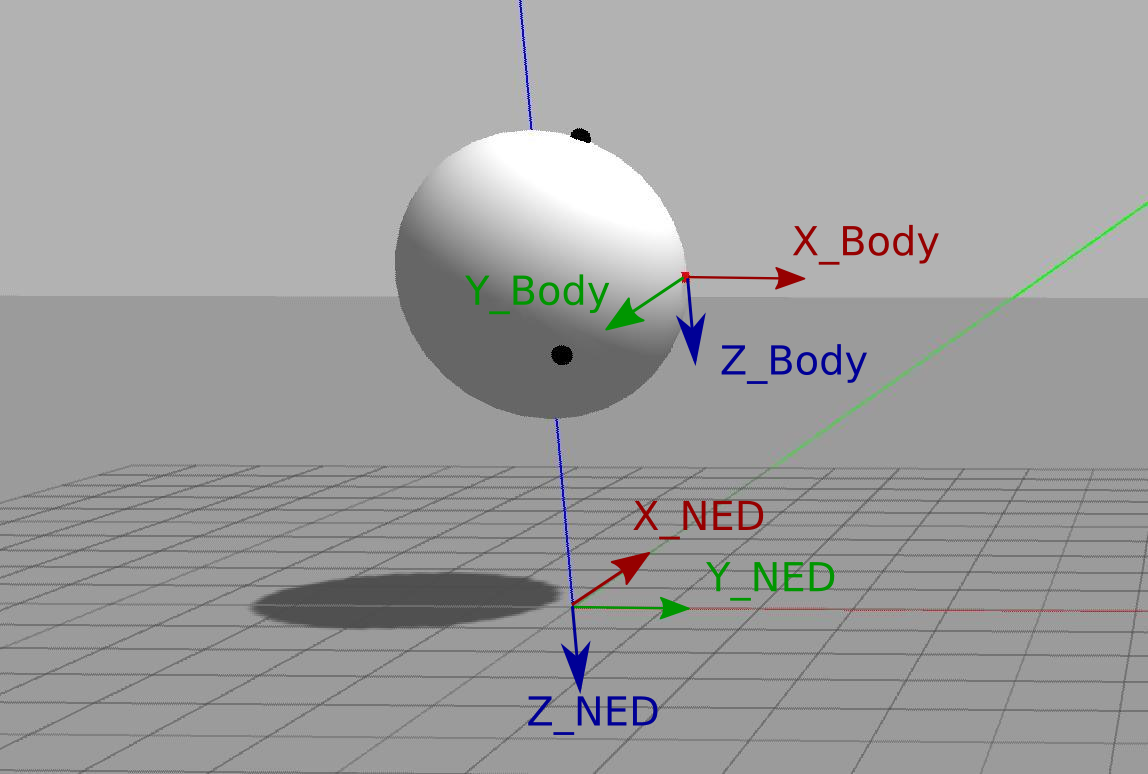
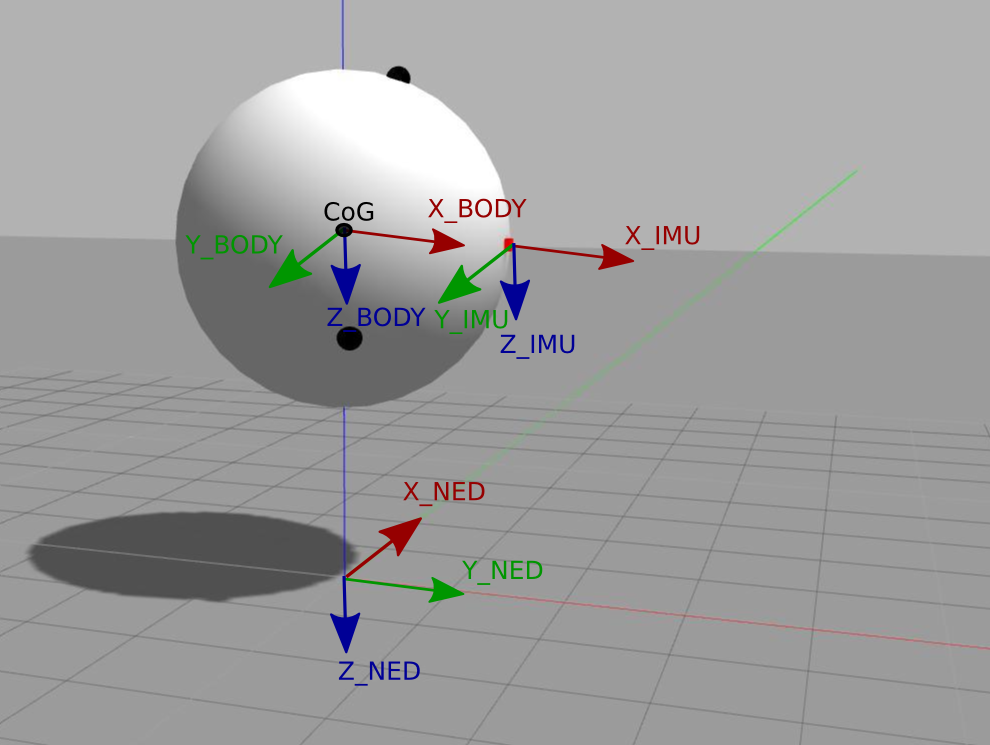
copied Marco's changes in skye_ros directory

diff --git a/skye_ros/src/skye_ros.cpp b/skye_ros/src/skye_ros.cpp
@@ -7,11 +7,12 @@ namespace skye_ros {
 SkyeRos::SkyeRos()
 {
   /* Subscribe to topics. */
-  imu_gz_bf_subscriber_ = nh_.subscribe<sensor_msgs::Imu>("sensor_msgs/imu_gz_bf",
+  imu_gz_sk_subscriber_ = nh_.subscribe<sensor_msgs::Imu>("sensor_msgs/imu_gz",
                                                           1,
                                                           boost::bind(&SkyeRos::imuCallback, this, _1));
   /* Advertise topics. */
-  imu_bf_publisher_  = nh_.advertise<sensor_msgs::Imu>("skye_ros/sensor_msgs/imu_bf", 10);
+  imu_sk_publisher_  = nh_.advertise<sensor_msgs::Imu>("skye_ros/sensor_msgs/imu_sk", 10);
+  hull_ground_truth_publisher_ = nh_.advertise<gazebo_msgs::LinkState>("skye_ros/ground_truth/hull", 10);
 
   /* Services. */
   client_gz_apply_body_wrench_ = nh_.serviceClient<gazebo_msgs::ApplyBodyWrench>("gazebo/apply_body_wrench");
@@ -20,26 +21,21 @@ SkyeRos::SkyeRos()
                                                   &SkyeRos::applyWrenchCog,
                                                   this);
 
-  /*server_get_link_state_ned_ = nh_.advertiseService("skye_ros/get_link_state_ned",
-                                                    &SkyeRos::getLinkStateNed,
-                                                    this);*/
   /* Quaternions. */
   q_ned_enu_ = Eigen::AngleAxisd(-M_PI, Eigen::Vector3d::UnitX()) * 
                Eigen::AngleAxisd(-M_PI / 2.0, Eigen::Vector3d::UnitZ()); 
   q_enu_ned_ = q_ned_enu_.inverse();
 
-  q_gzbf_bf_ = Eigen::AngleAxisd(-M_PI, Eigen::Vector3d::UnitX());
-  q_bf_gzbf_ = q_gzbf_bf_.inverse();
+  q_gz_sk_ = Eigen::AngleAxisd(-M_PI, Eigen::Vector3d::UnitX());
+  q_sk_gz_ = q_gz_sk_.inverse();
 
 }
 
-void SkyeRos::imuCallback(const sensor_msgs::ImuConstPtr &imu_gz_bf_p)
+void SkyeRos::imuCallback(const sensor_msgs::ImuConstPtr &imu_gz_sk_p)
 {
-  /* Convert imu msg from Gazebo's body frame to Skye's body frame.
-  */
-  sensor_msgs::Imu imu_bf;
+  /* Converts imu msg from Gazebo's IMU frame to Skye's IMU frame. */
+  sensor_msgs::Imu                          imu_sk;
   Eigen::Quaterniond                        q_orientation_ned;
-
 
   Eigen::Matrix<double,3,3,Eigen::RowMajor> orientation_cov_bf;
   Eigen::Matrix<double,3,3,Eigen::RowMajor> angular_vel_cov_bf;
@@ -48,71 +44,60 @@ void SkyeRos::imuCallback(const sensor_msgs::ImuConstPtr &imu_gz_bf_p)
   Eigen::Matrix<double,3,3>                 eig_matrix3;
 
   /* Orientation: msg_sensor/imu to tf::quaternion to eigen::quaternion. */
-  quaternionMsgToEigen(imu_gz_bf_p->orientation, eig_quat);
-  /* Rotation from Skye's body frame to Gazebo's body frame. Then rotation from Gazebo's body frame
-   * to Gazebo's world ENU. Finally rotation from Gazebo's world ENU to world NED frame.
+  quaternionMsgToEigen(imu_gz_sk_p->orientation, eig_quat);
+  /* Rotation from Skye's IMU frame to Gazebo's IMU frame (q_gz_sk_). 
+   * Then rotation from Gazebo's IMU frame to Gazebo's world ENU (eig_quat). 
+   * Finally rotation from Gazebo's world ENU to world NED frame (q_ned_enu_).
    */
-  q_orientation_ned = q_ned_enu_ * eig_quat * q_gzbf_bf_;
+  q_orientation_ned = q_ned_enu_ * eig_quat * q_gz_sk_;
 
   /* orientation_covariance: msg_sensor/imu to eigen::matrix. */
   /** @todo find a better solution to this workaround: &(array[0]). */
-  eig_matrix3 = Eigen::Map<const Eigen::Matrix<double,3,3,Eigen::RowMajor> >(&(imu_gz_bf_p->orientation_covariance[0]));                                  
-  orientation_cov_bf = q_bf_gzbf_.matrix() * eig_matrix3 * q_bf_gzbf_.matrix().transpose();
+  eig_matrix3 = Eigen::Map<const Eigen::Matrix<double,3,3,Eigen::RowMajor> >(&(imu_gz_sk_p->orientation_covariance[0]));                                  
+  orientation_cov_bf = q_sk_gz_.matrix() * eig_matrix3 * q_sk_gz_.matrix().transpose();
 
   /* angular velocity: invert Y and Z axis. */
-  imu_bf.angular_velocity.x =   imu_gz_bf_p->angular_velocity.x;
-  imu_bf.angular_velocity.y = -(imu_gz_bf_p->angular_velocity.y);
-  imu_bf.angular_velocity.z = -(imu_gz_bf_p->angular_velocity.z);
+  imu_sk.angular_velocity.x =   imu_gz_sk_p->angular_velocity.x;
+  imu_sk.angular_velocity.y = -(imu_gz_sk_p->angular_velocity.y);
+  imu_sk.angular_velocity.z = -(imu_gz_sk_p->angular_velocity.z);
 
   /* angular_velocity_covariance. */
   /** @todo find a better solution to this workaround: &(array[0]). */
-  eig_matrix3 = Eigen::Map<const Eigen::Matrix<double,3,3,Eigen::RowMajor> >(&(imu_gz_bf_p->angular_velocity_covariance[0]));                                  
-  angular_vel_cov_bf = q_bf_gzbf_.matrix() * eig_matrix3 * q_bf_gzbf_.matrix().transpose();
+  eig_matrix3 = Eigen::Map<const Eigen::Matrix<double,3,3,Eigen::RowMajor> >(&(imu_gz_sk_p->angular_velocity_covariance[0]));                                  
+  angular_vel_cov_bf = q_sk_gz_.matrix() * eig_matrix3 * q_sk_gz_.matrix().transpose();
 
   /* linear acceleration: invert Y and Z axis. */
-  imu_bf.linear_acceleration.x =   imu_gz_bf_p->linear_acceleration.x;
-  imu_bf.linear_acceleration.y = -(imu_gz_bf_p->linear_acceleration.y);
-  imu_bf.linear_acceleration.z = -(imu_gz_bf_p->linear_acceleration.z);
+  imu_sk.linear_acceleration.x =   imu_gz_sk_p->linear_acceleration.x;
+  imu_sk.linear_acceleration.y = -(imu_gz_sk_p->linear_acceleration.y);
+  imu_sk.linear_acceleration.z = -(imu_gz_sk_p->linear_acceleration.z);
 
   /* linear_acceleration_covariance. */
   /** @todo find a better solution to this workaround: &(array[0]). */
-  eig_matrix3 = Eigen::Map<const Eigen::Matrix<double,3,3,Eigen::RowMajor> >(&(imu_gz_bf_p->linear_acceleration_covariance[0]));                                  
-  linear_acc_cov_bf = q_bf_gzbf_.matrix() * eig_matrix3 * q_bf_gzbf_.matrix().transpose();
+  eig_matrix3 = Eigen::Map<const Eigen::Matrix<double,3,3,Eigen::RowMajor> >(&(imu_gz_sk_p->linear_acceleration_covariance[0]));                                  
+  linear_acc_cov_bf = q_sk_gz_.matrix() * eig_matrix3 * q_sk_gz_.matrix().transpose();
 
-  /* fill the imu_bf message and publish it. */
-  imu_bf.header = imu_gz_bf_p->header;
+  /* fill the imu_sk message and publish it. */
+  imu_sk.header = imu_gz_sk_p->header;
 
-  tf::quaternionEigenToMsg(q_orientation_ned, imu_bf.orientation);
+  tf::quaternionEigenToMsg(q_orientation_ned, imu_sk.orientation);
 
-  memcpy(&(imu_bf.orientation_covariance[0]),
+  memcpy(&(imu_sk.orientation_covariance[0]),
          orientation_cov_bf.data(), 
          sizeof(double) * orientation_cov_bf.rows() * orientation_cov_bf.cols());
 
   /* angular velocity already filled. */
 
-  memcpy(&(imu_bf.angular_velocity_covariance[0]),
+  memcpy(&(imu_sk.angular_velocity_covariance[0]),
          angular_vel_cov_bf.data(), 
          sizeof(double) * angular_vel_cov_bf.rows() * angular_vel_cov_bf.cols());
 
   /* linear acceleration already filled. */
 
-  memcpy(&(imu_bf.linear_acceleration_covariance[0]),
+  memcpy(&(imu_sk.linear_acceleration_covariance[0]),
          linear_acc_cov_bf.data(), 
          sizeof(double) * linear_acc_cov_bf.rows() * linear_acc_cov_bf.cols());
 
-
-  imu_bf_publisher_.publish(imu_bf); 
-
-  /* Debug */
-  /*Eigen::Vector3d euler_angles = q_orientation_ned.matrix().eulerAngles(2, 1, 0);
-  ROS_INFO("yaw: %f\tpitch: %f\troll: %f",  euler_angles[0] * 180.0 / M_PI,
-                                            euler_angles[1] * 180.0 / M_PI, 
-                                            euler_angles[2] * 180.0 / M_PI);*/
-  /*skye_ros::GetLinkStateNed::Request   req;
-  skye_ros::GetLinkStateNed::Response  rep;
-  req.link_name = "hull";
-  getLinkStateNed(req, rep); */
-  /* End Debug */
+  imu_sk_publisher_.publish(imu_sk); 
 }
 
 bool SkyeRos::applyWrenchCog(skye_ros::ApplyWrenchCogBf::Request   &req,
@@ -132,11 +117,15 @@ bool SkyeRos::applyWrenchCog(skye_ros::ApplyWrenchCogBf::Request   &req,
   /* Get skye::hull state information from Gazebo. This is the state of the Gazebo's local frame
    * attached to Skye, expressed in Gazebo ENU world frame.
    */
-  getLinkState("hull", hull_state, success, status_message); /**@todo remove hardcoded string "hull" */
+  if(!getLinkState("hull", hull_state, success, status_message)){ /**@todo remove hardcoded string "hull" */
+    ROS_ERROR("Error in getting link state: %s", status_message.c_str());
+    return false;
+  }
+     
   quaternionMsgToEigen(hull_state.pose.orientation, q_world_skye_gzbf);
 
   /* Rotation matrix for the wrench. */
-  r_world_skye_bf = q_world_skye_gzbf.matrix() * q_gzbf_bf_.matrix();
+  r_world_skye_bf = q_world_skye_gzbf.matrix() * q_gz_sk_.matrix();
   rotation_matrix_wrench.topLeftCorner(r_world_skye_bf.rows(), r_world_skye_bf.cols()) = r_world_skye_bf;
   rotation_matrix_wrench.bottomRightCorner(r_world_skye_bf.rows(), r_world_skye_bf.cols()) = r_world_skye_bf;
 
@@ -174,7 +163,7 @@ bool SkyeRos::applyWrenchCog(skye_ros::ApplyWrenchCogBf::Request   &req,
 }
 
 
-bool SkyeRos::getLinkStateNed(skye_ros::GetLinkStateNed::Request   &req,
+bool SkyeRos::getLinkStateNed(const std::string                    link_name,
                               skye_ros::GetLinkStateNed::Response  &rep)
 {
   gazebo_msgs::LinkState      link_state;
@@ -194,7 +183,10 @@ bool SkyeRos::getLinkStateNed(skye_ros::GetLinkStateNed::Request   &req,
    * Convert it in a NED world frame with same origin of Gazebo's wolrd frame. This is
    * the Gazebo NED world frame.
    */
-  getLinkState(req.link_name, link_state, success, status_message);
+  if(!getLinkState(link_name, link_state, success, status_message)){
+    ROS_ERROR("Error in getting link state: %s", status_message.c_str());
+    return false;
+  }
 
   tf::pointMsgToEigen(link_state.pose.position, p_link_enu);
   quaternionMsgToEigen(link_state.pose.orientation, q_world_link_enu);
@@ -203,9 +195,11 @@ bool SkyeRos::getLinkStateNed(skye_ros::GetLinkStateNed::Request   &req,
 
 
   p_link_ned = q_ned_enu_.matrix() * p_link_enu;
-  q_world_link_ned = q_ned_enu_ * q_world_link_enu * q_gzbf_bf_; //orientation of link's NED frame in Gazebo's NED f.
+  q_world_link_ned = q_ned_enu_ * q_world_link_enu * q_gz_sk_; //orientation of link's NED frame in Gazebo's NED f.
   v_link_ned = q_ned_enu_.matrix() * v_link_enu;
-  w_link_ned = q_ned_enu_.matrix() * w_link_enu;
+  //w_link_ned = q_ned_enu_.matrix() * w_link_enu;/** @todo see how to properly feel this. */
+  //w_link_ned = w_link_enu; //only for test
+  w_link_ned = Eigen::Matrix<double,3,1>::Zero();/** @todo delt this and replace with right values. */
 
   /* Debug */
   /*Eigen::Vector3d euler_angles = q_world_link_ned.matrix().eulerAngles(2, 1, 0);
@@ -275,7 +269,21 @@ void SkyeRos::quaternionMsgToEigen(const geometry_msgs::Quaternion  &quat_in,
   tf::quaternionTFToEigen(tf_quat, quat_out);
 }
 
+void SkyeRos::pubHullGroundTruth()
+{
+  /* Get Hull's ground truth information from Gazebo. */
+  skye_ros::GetLinkStateNed::Response  res;
+  getLinkStateNed("hull", res);
 
+  /* Publish the obtained information. */
+  gazebo_msgs::LinkState hull_ground_truth;
+
+  hull_ground_truth.pose = res.link_state.pose;
+  hull_ground_truth.twist = res.link_state.twist;
+  hull_ground_truth.reference_frame = "";/**@see  SkyeRos::getLinkState*/
+
+  hull_ground_truth_publisher_.publish(hull_ground_truth);
+}
 
 } // namespace skye_ros
 
@@ -286,7 +294,22 @@ int main(int argc, char **argv)
 
   skye_ros::SkyeRos skye_ros_interface;
 
-  ros::spin();
+  ros::Rate loop_rate(HULL_GROUND_TRUTH_HZ);
+
+  /* Sleep fo half a second before entering the main loop. */
+  ros::Duration(0.5).sleep();
+
+  while (ros::ok())
+  {
+    /* Use the frequency set in loop_rate to publish ground truth information. */
+    skye_ros_interface.pubHullGroundTruth();
+
+    /* Once per loop allow callback functions to be called. */
+    ros::spinOnce();
+
+    /* sleep untill next loop. */
+    loop_rate.sleep();
+  }
 
   return 0;
 }

diff --git a/skye_ros/include/skye_ros/skye_ros.h b/skye_ros/include/skye_ros/skye_ros.h
@@ -5,9 +5,8 @@
 #ifndef SKYE_ROS_H
 #define SKYE_ROS_H
 
-
 #include <ros/ros.h>
-
+#include <ros/console.h>
 
 #include <vector>
 #include <Eigen/Geometry>
@@ -28,6 +27,8 @@
 
 namespace skye_ros {
 
+#define HULL_GROUND_TRUTH_HZ 100 //publishing frequency of ground truth inf of the hull
+
 class SkyeRos
 {
 public:
@@ -40,14 +41,13 @@ public:
      * @brief      Callback function when a new imu msg has been received from
      *             Gazebo.
      *
-     *             Converts Imu data from local Gazebo frame, attached to the
-     *             Imu box in Gazebo, to a local body frame and publish this new
-     *             data. This body frame has X poitning forward, Y poiting right
-     *             and Z poiting downwards.
+     *             Converts Imu data from local Gazebo IMU frame (X forward, Y left, Z up), 
+     *             attached to the Imu box in Gazebo, to Skye's IMU frame (X forward, Y right, Z down)
+     *             and publish this new data.
      *
-     * @param[in]  imu_gz_bf_p  imu data in Gazebo body frame.
+     * @param[in]  imu_gz_sk_p  imu data in Gazebo IMU frame.
      */
-    void imuCallback(const sensor_msgs::ImuConstPtr  &imu_gz_bf_p);
+    void imuCallback(const sensor_msgs::ImuConstPtr  &imu_gz_sk_p);
 
     /**
      * @brief      Callback function when apply_wrench_cog service is called.
@@ -64,34 +64,34 @@ public:
 
     /**
      * @brief      Callback function when get_link_state_ned service is called.
-     * 
-     * Return the link state expressed in a NED world fixed frame.
      *
-     * @param      req   Service request.   
+     *             Return the link state expressed in a NED world fixed frame.
+     *
+     * @param[in]  link_name  name of the link to get the state
      * @param      req   Service response.
      *
+     * @return     { description_of_the_return_value }
      */
-    bool getLinkStateNed(skye_ros::GetLinkStateNed::Request   &req,
+    bool getLinkStateNed(const std::string                    link_name,
                          skye_ros::GetLinkStateNed::Response  &rep);
+
+    /**
+     * @brief      Publish ground truth infomration of the Skye's hull.
+     */
+    void pubHullGroundTruth();
 
 private:
     ros::NodeHandle     nh_;                          /**< Main access point to communicate with ROS. */
-    ros::Subscriber     imu_gz_bf_subscriber_;        /**< Sub. to gazebo body frame Imu data. */
-    ros::Publisher      imu_bf_publisher_;            /**< Pub. of body frame Imu data. */
+    ros::Subscriber     imu_gz_sk_subscriber_;        /**< Sub. to gazebo IMU frame data. */
+    ros::Publisher      imu_sk_publisher_;            /**< Pub. of Skye Imu frame data. */
+    ros::Publisher      hull_ground_truth_publisher_; /**< Pub. of the true ground state of the hull. */
     ros::ServiceClient  client_gz_apply_body_wrench_; /**< Client to apply a body wrench in Gazebo. */
     ros::ServiceClient  client_gz_get_link_state_;    /**< Client to get link state in Gazebo. */
     ros::ServiceServer  server_apply_wrench_cog_;     /**< Server to apply wrench in cog of Skye. */
-    Eigen::Quaterniond  q_gzbf_bf_;                   /**< Quaternion from Skye's body frame to Gazebo body frame. */
+    Eigen::Quaterniond  q_gz_sk_;                     /**< Quaternion from Skye's IMU frame to Gazebo IMU frame. */
     Eigen::Quaterniond  q_ned_enu_;                   /**< Quaternion from ENU world frame to NED world frame. */
-    Eigen::Quaterniond  q_bf_gzbf_;                   /**< Quaternion from Gazebo body frame to Skye's body frame. */
+    Eigen::Quaterniond  q_sk_gz_;                     /**< Quaternion from Gazebo IMU frame to Skye's IMU frame. */
     Eigen::Quaterniond  q_enu_ned_;                   /**< Quaternion from NED world frame to ENU world frame. */
-
-    /* Removed server_get_link_state_ned_; 
-     * Do not allow an external user to use this service.
-     * The function getLinkStateNed can be still used internally to retrieve 
-     * information about the pose of one link.
-    */
-    //ros::ServiceServer  server_get_link_state_ned_;   /**< Server to get link state in world NED frame. */
 
     /**
      * @brief      Get link state from Gazebo.
@@ -115,6 +115,7 @@ private:
      */
     void quaternionMsgToEigen(const geometry_msgs::Quaternion   &quat_in,
                               Eigen::Quaterniond                &quat_out);
+
 };
 
 } // namespace skye_ros
